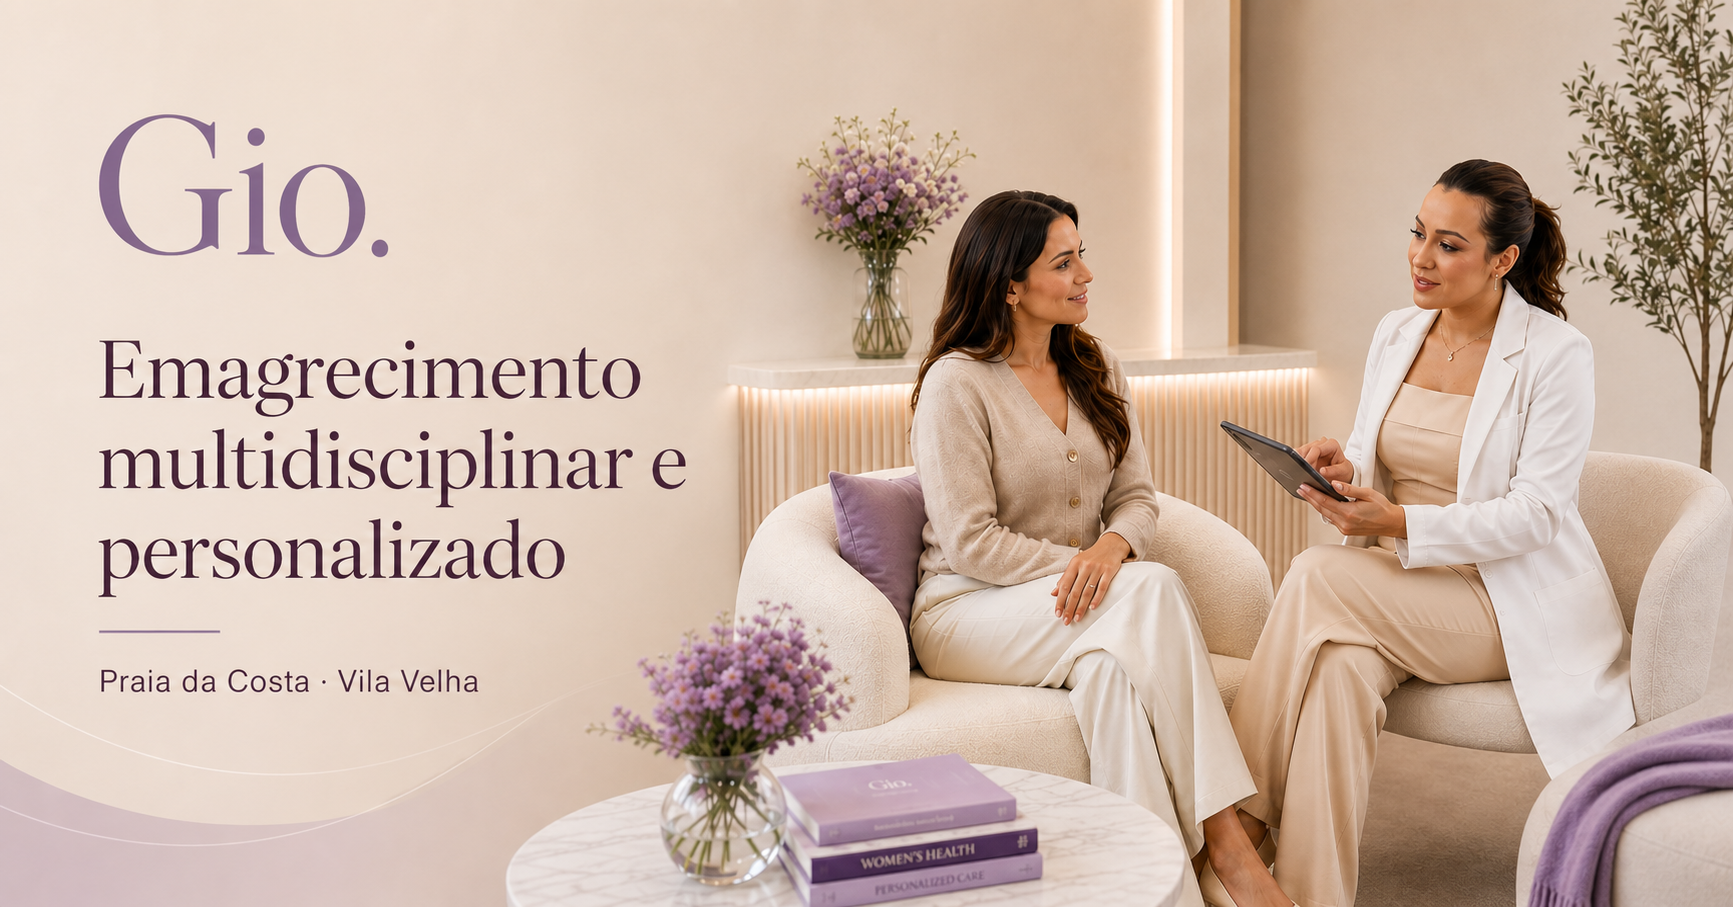
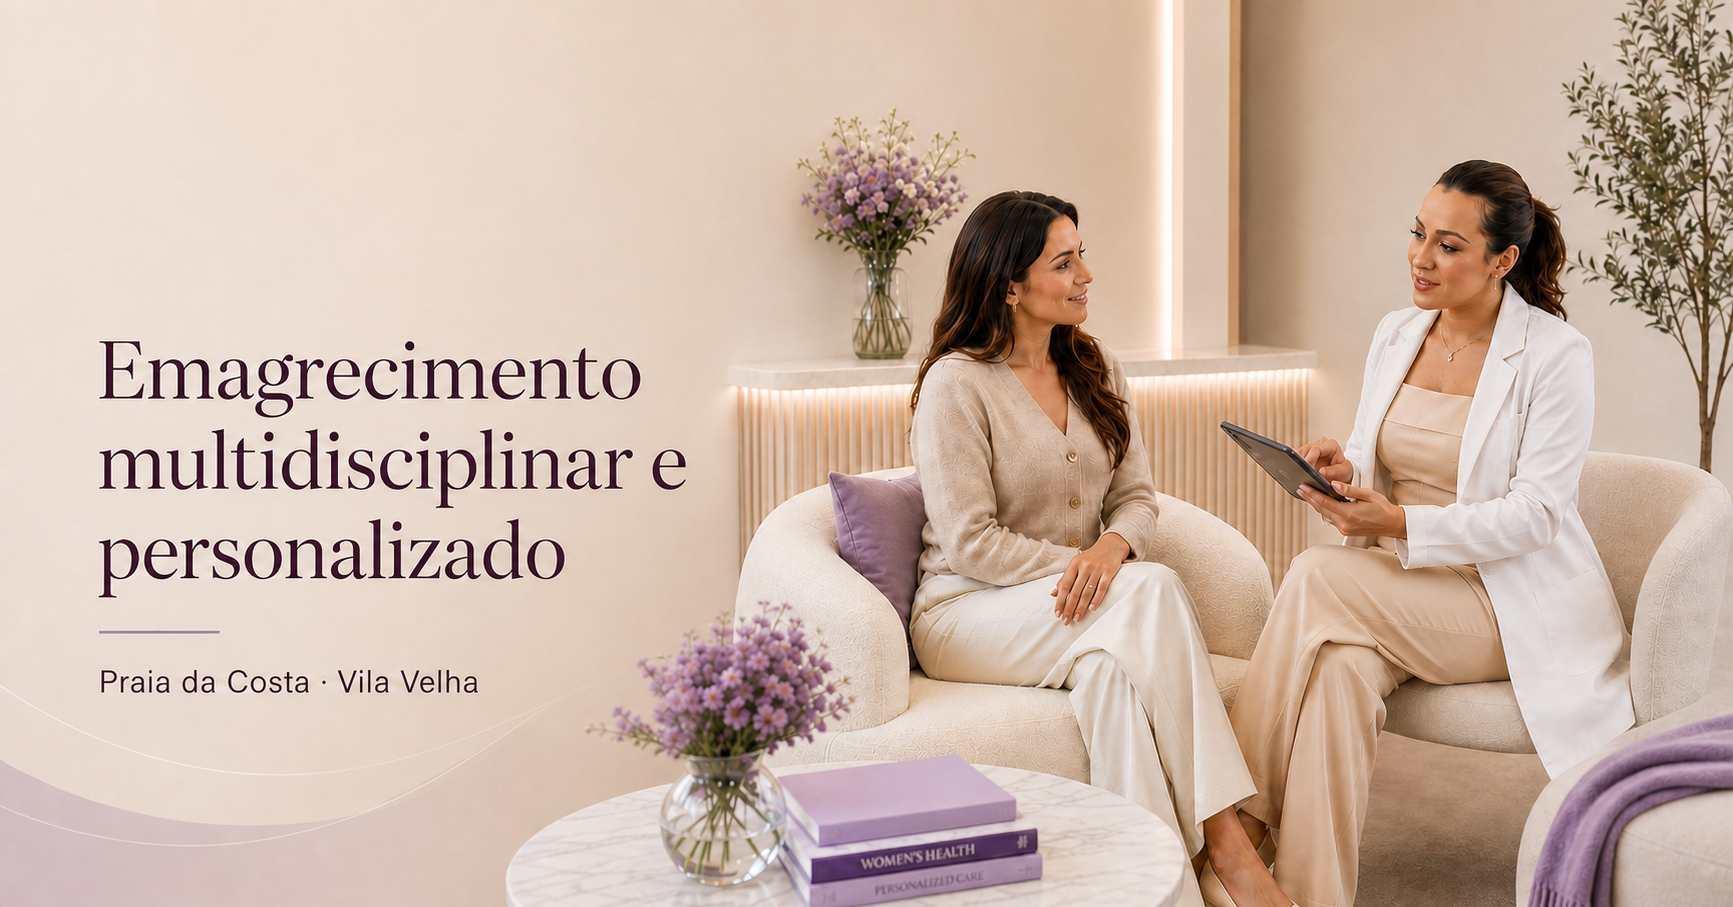
Remove menções à Gio da landing page

diff --git a/app/GioLandingPage.tsx b/app/GioLandingPage.tsx
@@ -143,9 +143,9 @@ export default function GioLandingPage() {
 
       <header className={`site-header ${scrolled ? "is-scrolled" : ""}`}>
         <div className="header-inner shell">
-          <a className="brand" href="#hero" aria-label="Gio Estética Avançada, início">
-            <span className="brand-mark">Gio.</span>
-            <span className="brand-line">Estética Avançada</span>
+          <a className="brand" href="#hero" aria-label="Estética Avançada, início">
+            <span className="brand-mark">Estética</span>
+            <span className="brand-line">Avançada</span>
           </a>
 
           <nav className="desktop-nav" aria-label="Navegação principal">
@@ -235,7 +235,7 @@ export default function GioLandingPage() {
                 </a>
               </div>
               <p className="hero-support">
-                Na Gio, profissionais acompanham saúde, alimentação, comportamento, movimento e evolução
+                Aqui, profissionais acompanham saúde, alimentação, comportamento, movimento e evolução
                 corporal. O tratamento medicamentoso entra quando indicado pelo médico.
               </p>
               <div className="hero-indicators" aria-label="Diferenciais">
@@ -257,7 +257,7 @@ export default function GioLandingPage() {
                   src="/images/gio/hero.png"
                   width="2048"
                   height="1152"
-                  alt="Profissional acolhendo uma paciente em ambiente premium da Gio"
+                  alt="Profissional acolhendo uma paciente em ambiente premium"
                   fetchPriority="high"
                 />
               </div>
@@ -358,7 +358,7 @@ export default function GioLandingPage() {
                 O problema não é você. É tentar cuidar de algo complexo com soluções isoladas.
               </blockquote>
               <p>
-                Por isso, a Gio estruturou um protocolo com cuidados médicos, nutricionais, psicológicos,
+                Por isso, foi estruturado um protocolo com cuidados médicos, nutricionais, psicológicos,
                 estéticos e atividade física.
               </p>
             </div>
@@ -371,7 +371,7 @@ export default function GioLandingPage() {
               <div className="protocol-application-heading">
                 <h2>Um plano de tratamento estruturado para acompanhar <em>diferentes partes do seu processo.</em></h2>
                 <p>
-                  A Gio reúne avaliações, profissionais e cuidados em uma única jornada.
+                  O protocolo reúne avaliações, profissionais e cuidados em uma única jornada.
                 </p>
                 <p className="protocol-medical-disclaimer">
                   <ShieldCheck aria-hidden="true" /> O médico define as condutas clínicas e avalia a indicação de
@@ -383,7 +383,7 @@ export default function GioLandingPage() {
                   src="/images/gio/protocolo-avaliacao.png"
                   width="1672"
                   height="941"
-                  alt="Profissional realizando avaliação personalizada de uma paciente na Gio"
+                  alt="Profissional realizando avaliação personalizada de uma paciente"
                   loading="lazy"
                 />
               </div>
@@ -470,7 +470,7 @@ export default function GioLandingPage() {
                 src="/images/gio/protocolo-para-voce.png"
                 width="2048"
                 height="1152"
-                alt="Profissional apresentando o protocolo personalizado da Gio"
+                alt="Profissional apresentando o protocolo personalizado"
                 loading="lazy"
               />
               <div className="audience-overlap">
@@ -771,7 +771,7 @@ export default function GioLandingPage() {
                       <article key={role} className="team-area-card team-area-card-profile">
                         <img
                           src="/images/gio/thassia-garcia-estetica.jpeg"
-                          alt="Thassia Garcia, profissional da área de estética da Gio Praia da Costa"
+                          alt="Thassia Garcia, profissional da área de estética na Praia da Costa"
                           width="1365"
                           height="2048"
                           loading="lazy"
@@ -887,9 +887,9 @@ export default function GioLandingPage() {
                     </p>
                   </blockquote>
                   <div className="testimonial-person">
-                    <span aria-hidden="true">G</span>
+                    <span aria-hidden="true">P</span>
                     <div>
-                      <strong>Paciente Gio</strong>
+                      <strong>Paciente</strong>
                       <small>Identificação preservada.</small>
                     </div>
                   </div>
@@ -936,7 +936,7 @@ export default function GioLandingPage() {
         <section className="clinic-showcase section-pad" ref={clinicSectionRef}>
           <div className="shell clinic-showcase-grid">
             <div className="clinic-showcase-copy">
-              <h2>Conheça a Gio Praia da Costa.</h2>
+              <h2>Conheça nossa estrutura na Praia da Costa.</h2>
               <p>
                 Conforto, privacidade e cuidado para receber você.
               </p>
@@ -1030,13 +1030,13 @@ export default function GioLandingPage() {
       <footer className="site-footer">
         <div className="shell footer-grid">
           <div className="footer-brand">
-            <span className="brand-mark">Gio.</span>
+            <span className="brand-mark">Estética</span>
             <p>{siteConfig.clinicName}</p>
             <span>{siteConfig.location}</span>
           </div>
           <div className="footer-links">
             <strong>Informações</strong>
-            <a href={siteConfig.instagramUrl} target="_blank" rel="noreferrer">{siteConfig.instagram}</a>
+            <a href={siteConfig.instagramUrl} target="_blank" rel="noreferrer">Instagram</a>
             <a href="/politica-de-privacidade">Política de Privacidade</a>
             <a href="/termos-de-uso">Termos de Uso</a>
           </div>

diff --git a/app/api/lead/route.ts b/app/api/lead/route.ts
@@ -1,7 +1,7 @@
 import { siteConfig } from "../../../src/config/site";
 
 const RESEND_ENDPOINT = "https://api.resend.com/emails";
-const DEFAULT_FROM_EMAIL = "Gio Praia da Costa <onboarding@resend.dev>";
+const DEFAULT_FROM_EMAIL = "Estética Avançada Praia da Costa <onboarding@resend.dev>";
 
 type LeadPayload = {
   name?: unknown;
@@ -122,7 +122,7 @@ export async function POST(request: Request) {
         to: [destinationEmail],
         subject: `Novo contato pelo site — ${name}`,
         text: [
-          "Novo contato recebido pelo site da Gio Praia da Costa",
+          "Novo contato recebido pelo site de Estética Avançada Praia da Costa",
           "",
           `Nome: ${name}`,
           `WhatsApp: ${displayedPhone}`,
@@ -134,7 +134,7 @@ export async function POST(request: Request) {
           <div style="background:#f5f0ea;padding:32px;font-family:Arial,sans-serif;color:#3f3046">
             <div style="max-width:620px;margin:0 auto;background:#ffffff;border-radius:16px;overflow:hidden">
               <div style="background:#594263;padding:24px 28px;color:#ffffff">
-                <div style="font-size:13px;letter-spacing:.08em;text-transform:uppercase;opacity:.8">Gio Praia da Costa</div>
+                <div style="font-size:13px;letter-spacing:.08em;text-transform:uppercase;opacity:.8">Estética Avançada Praia da Costa</div>
                 <h1 style="font-size:24px;margin:8px 0 0">Novo contato pelo site</h1>
               </div>
               <div style="padding:28px">

diff --git a/app/page.tsx b/app/page.tsx
@@ -14,7 +14,7 @@ export async function generateMetadata(): Promise<Metadata> {
   return {
     title: { absolute: "Estética Avançada | Protocolo de Emagrecimento" },
     description:
-      "Conheça o protocolo de emagrecimento da Gio: um plano personalizado que conecta cuidado médico, nutrição, psicologia, atividade física e estética na Praia da Costa.",
+      "Conheça o protocolo de emagrecimento: um plano personalizado que conecta cuidado médico, nutrição, psicologia, atividade física e estética na Praia da Costa.",
     keywords: [
       "estética avançada",
       "protocolo de emagrecimento",
@@ -28,9 +28,9 @@ export async function generateMetadata(): Promise<Metadata> {
         "Um plano personalizado de emagrecimento com acompanhamento médico e diferentes áreas de cuidado.",
       type: "website",
       locale: "pt_BR",
-      siteName: "Gio Estética Avançada Praia da Costa",
+      siteName: "Estética Avançada Praia da Costa",
       ...(ogImage
-        ? { images: [{ url: ogImage, width: 1733, height: 907, alt: "Gio - Emagrecimento multidisciplinar e personalizado" }] }
+        ? { images: [{ url: ogImage, width: 1733, height: 907, alt: "Emagrecimento multidisciplinar e personalizado" }] }
         : {}),
     },
     twitter: {

diff --git a/src/config/site.ts b/src/config/site.ts
@@ -1,13 +1,13 @@
 export const siteConfig = {
-  clinicName: "Gio Estética Avançada Praia da Costa",
-  shortName: "Gio Praia da Costa",
+  clinicName: "Estética Avançada Praia da Costa",
+  shortName: "clínica da Praia da Costa",
   instagram: "@giopraiadacosta",
   instagramUrl: "https://www.instagram.com/giopraiadacosta/",
   location: "Praia da Costa, Vila Velha, Espírito Santo",
   fullAddress: "Av. Henrique Moscoso, 530, Praia da Costa, Vila Velha, ES, 29100-020",
   whatsappNumber: "5527997756738",
   whatsappMessage:
-    "Olá! Gostaria de entender se o Método Gio Integrado faz sentido para o meu momento.",
+    "Olá! Gostaria de entender se o protocolo integrado faz sentido para o meu momento.",
   googleMapsUrl: "https://maps.app.goo.gl/ttdbpcYVpsMCGKeK7",
   email: "giolaserpraiadacosta@gmail.com",
   openingHours:

diff --git a/src/config/copy.ts b/src/config/copy.ts
@@ -121,7 +121,7 @@ export const objections = [
   ["Tenho medo de começar e desistir novamente.", "Diferentes profissionais acompanham também as dificuldades da jornada."],
   ["Não consigo seguir uma rotina perfeita.", "O plano considera sua realidade, suas possibilidades e seu momento."],
   ["Já tentei dieta e exercício e não consegui manter.", "As tentativas anteriores ajudam a equipe a entender o que precisa mudar."],
-  ["Não sei qual profissional procurar primeiro.", "A equipe da Gio apresenta os próximos passos no primeiro contato."],
+  ["Não sei qual profissional procurar primeiro.", "A equipe apresenta os próximos passos no primeiro contato."],
 ] as const;
 
 export const teamRoles = [

diff --git a/src/lib/whatsapp.ts b/src/lib/whatsapp.ts
@@ -12,7 +12,7 @@ export function buildLeadMessage(data: {
 }) {
   return [
     `Olá! Meu nome é ${data.name}.`,
-    "Gostaria de entender se o Método Gio Integrado faz sentido para o meu momento.",
+    "Gostaria de entender se o protocolo integrado faz sentido para o meu momento.",
     `Minha principal dificuldade é: ${data.difficulty}`,
     "Quero entender se o protocolo é indicado para mim e quais são os próximos passos.",
   ].join("\n");

diff --git a/app/layout.tsx b/app/layout.tsx
@@ -24,7 +24,7 @@ export const metadata: Metadata = {
   metadataBase: new URL(siteConfig.canonicalUrl),
   title: {
     default: "Estética Avançada | Protocolo de Emagrecimento",
-    template: "%s | Gio Praia da Costa",
+    template: "%s | Estética Avançada Praia da Costa",
   },
   description:
     "Protocolo de emagrecimento personalizado com acompanhamento médico e diferentes áreas de cuidado na Praia da Costa, Vila Velha.",

diff --git a/app/politica-de-privacidade/page.tsx b/app/politica-de-privacidade/page.tsx
@@ -4,7 +4,7 @@ import { siteConfig } from "../../src/config/site";
 
 export const metadata: Metadata = {
   title: "Política de Privacidade",
-  description: "Informações sobre privacidade e tratamento de dados na página da Gio Praia da Costa.",
+  description: "Informações sobre privacidade e tratamento de dados da clínica na Praia da Costa.",
 };
 
 export default function PrivacyPage() {

diff --git a/app/termos-de-uso/page.tsx b/app/termos-de-uso/page.tsx
@@ -4,7 +4,7 @@ import { medicalNotice } from "../../src/config/copy";
 
 export const metadata: Metadata = {
   title: "Termos de Uso",
-  description: "Termos de uso da página informativa da Gio Praia da Costa.",
+  description: "Termos de uso da página informativa da clínica na Praia da Costa.",
 };
 
 export default function TermsPage() {

diff --git a/app/ui-refinements.css b/app/ui-refinements.css
@@ -828,7 +828,7 @@ body .team-lead-visual {
 }
 
 body .team-lead-visual::after {
-  content: "Gio.";
+  content: "Cuidado.";
   position: absolute;
   right: 24px;
   bottom: 12px;
